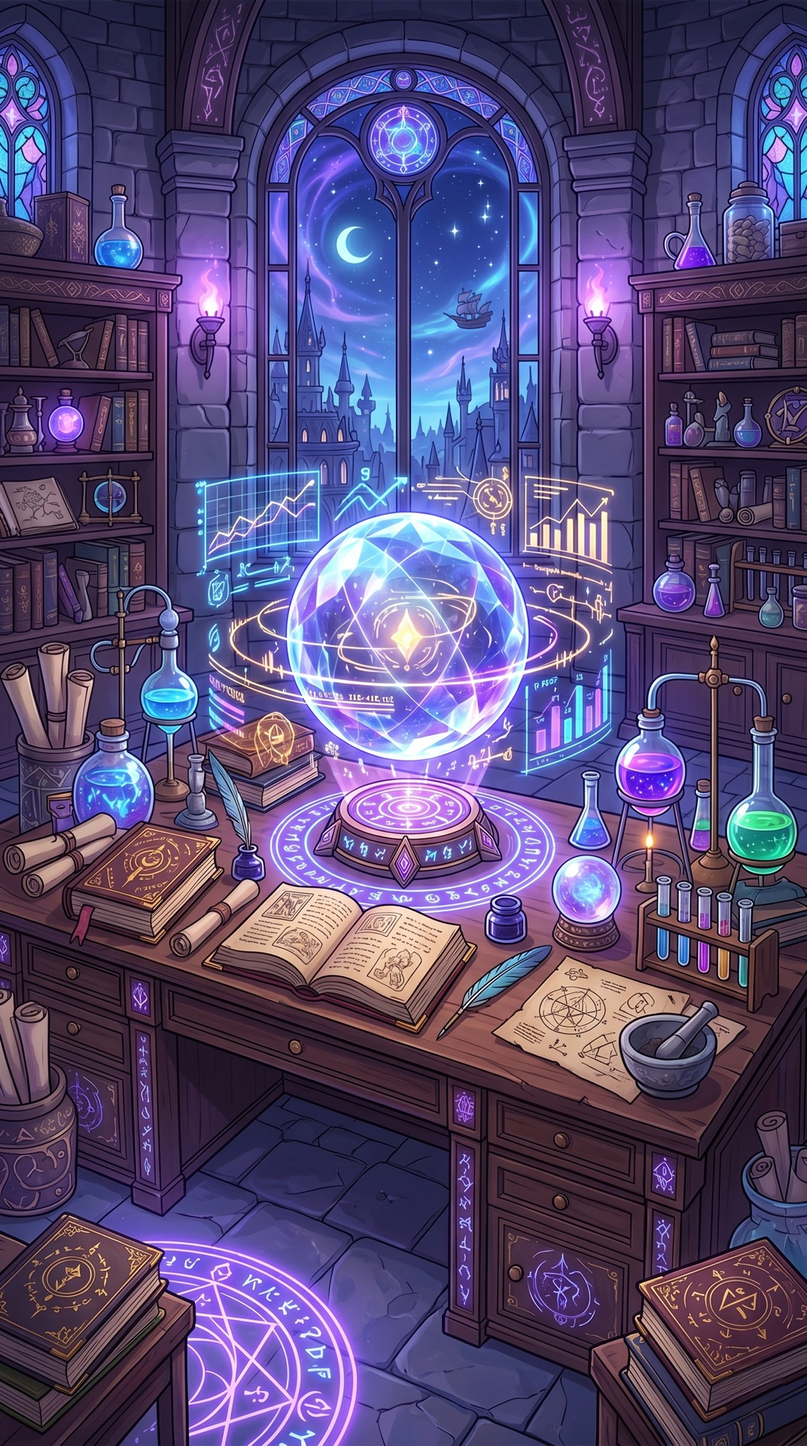
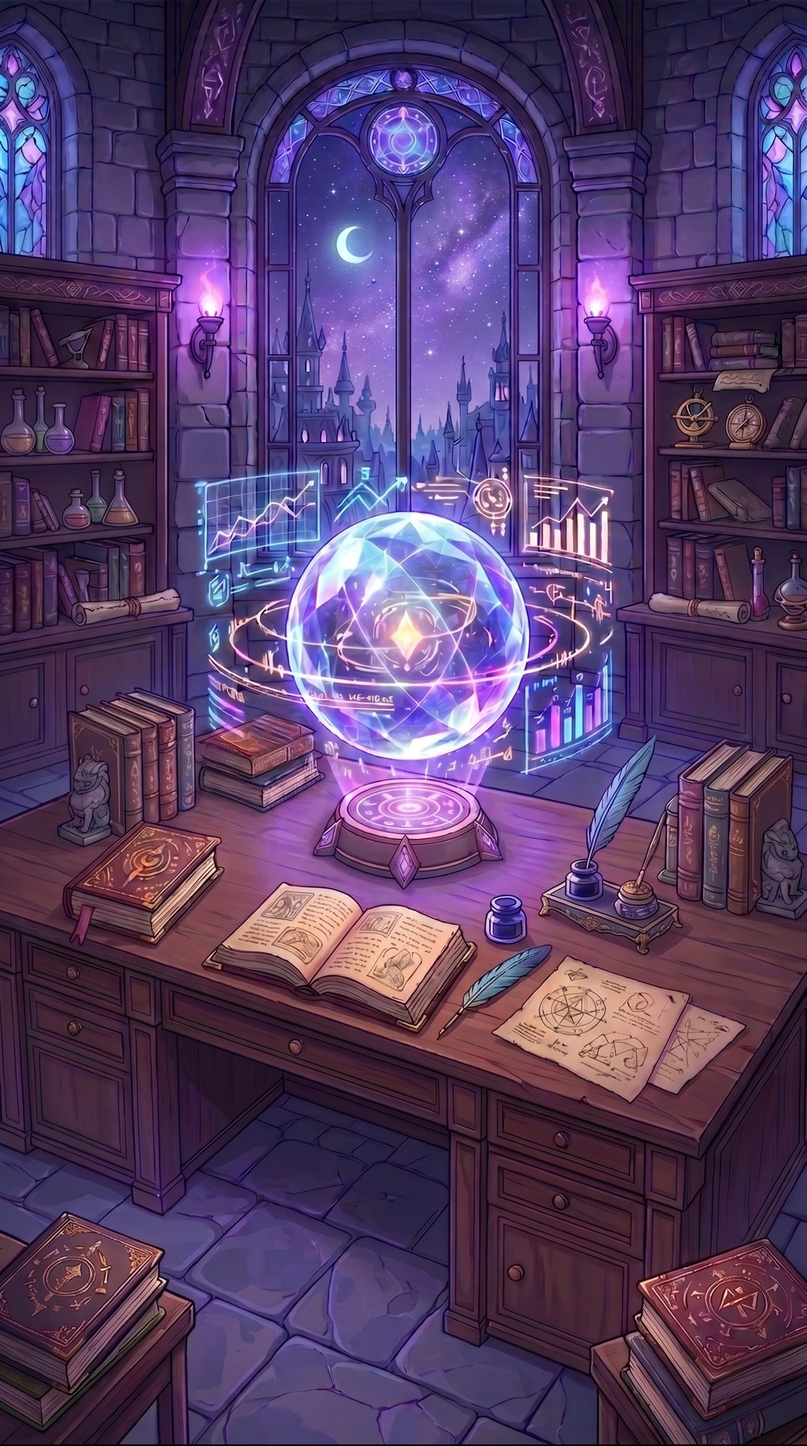
ㅇ

diff --git a/index.html b/index.html
@@ -301,7 +301,7 @@ body { font-family: 'Jua', 'Noto Sans KR', -apple-system, sans-serif; color:var(
   100% { opacity: 0; transform: translate(-50%, -60px) scale(1); }
 }
 .char-name {
-  font-size:20px; margin-top:10px; text-align:center;
+  font-size:20px; margin-top:10px; text-align:center; color:#ffffff; text-shadow: 0 1px 3px rgba(0,0,0,0.8);
 }
 .energy-wrap { width:240px; margin-top:8px; }
 .energy-bar-bg {
@@ -942,7 +942,7 @@ body, #app {
 }
 
 /* 각 화면별 배경 이미지 위에 어두운 필터를 깔아서 글씨가 잘 보이게 합니다 */
-#screen-home { background: linear-gradient(rgba(10, 10, 20, 0.5), rgba(10, 10, 20, 0.8)), url('imgs/bg_home.jpg') no-repeat center/cover !important; }
+#screen-home { background: linear-gradient(rgba(10, 10, 20, 0.3), rgba(10, 10, 20, 0.6)), url('imgs/bg_home.jpg') no-repeat center/cover !important; }
 #screen-portfolio { background: linear-gradient(rgba(10, 10, 20, 0.5), rgba(10, 10, 20, 0.8)), url('imgs/bg_portfolio.jpg') no-repeat center/cover !important; }
 #screen-gacha { background: linear-gradient(rgba(10, 10, 20, 0.5), rgba(10, 10, 20, 0.8)), url('imgs/bg_gacha.jpg') no-repeat center/cover !important; }
 #screen-market { background: linear-gradient(rgba(10, 10, 20, 0.5), rgba(10, 10, 20, 0.8)), url('imgs/bg_market.jpg') no-repeat center/cover !important; }
@@ -4212,11 +4212,11 @@ function renderHome() {
     titleEl.dataset.currentIdx = String(titleIdx); // 지금 번호를 폰에 기억시켜둠
 
     // 💡 칭호가 바뀔 때 홈 화면 배경 이미지도 함께 교체해줍니다!
-    var homeScreen = document.getElementById('screen-home');
-    if (homeScreen) {
-      var newBgUrl = "url('imgs/bg_home_" + titleIdx + ".jpg')";
-      homeScreen.style.setProperty('background', 'linear-gradient(rgba(10, 10, 20, 0.5), rgba(10, 10, 20, 0.8)), ' + newBgUrl + ' no-repeat center/cover', 'important');
-    }
+    var homeScreen = document.getElementById('screen-home');
+    if (homeScreen) {
+      var newBgUrl = "url('imgs/bg_home_" + titleIdx + ".jpg')";
+      homeScreen.style.setProperty('background', 'linear-gradient(rgba(10, 10, 20, 0.3), rgba(10, 10, 20, 0.6)), ' + newBgUrl + ' no-repeat center/cover', 'important');
+    }
   }
 
   // 💡 1. 큰 글씨 (총 자산) - "총자산" 글씨 빼고 숫자만!
